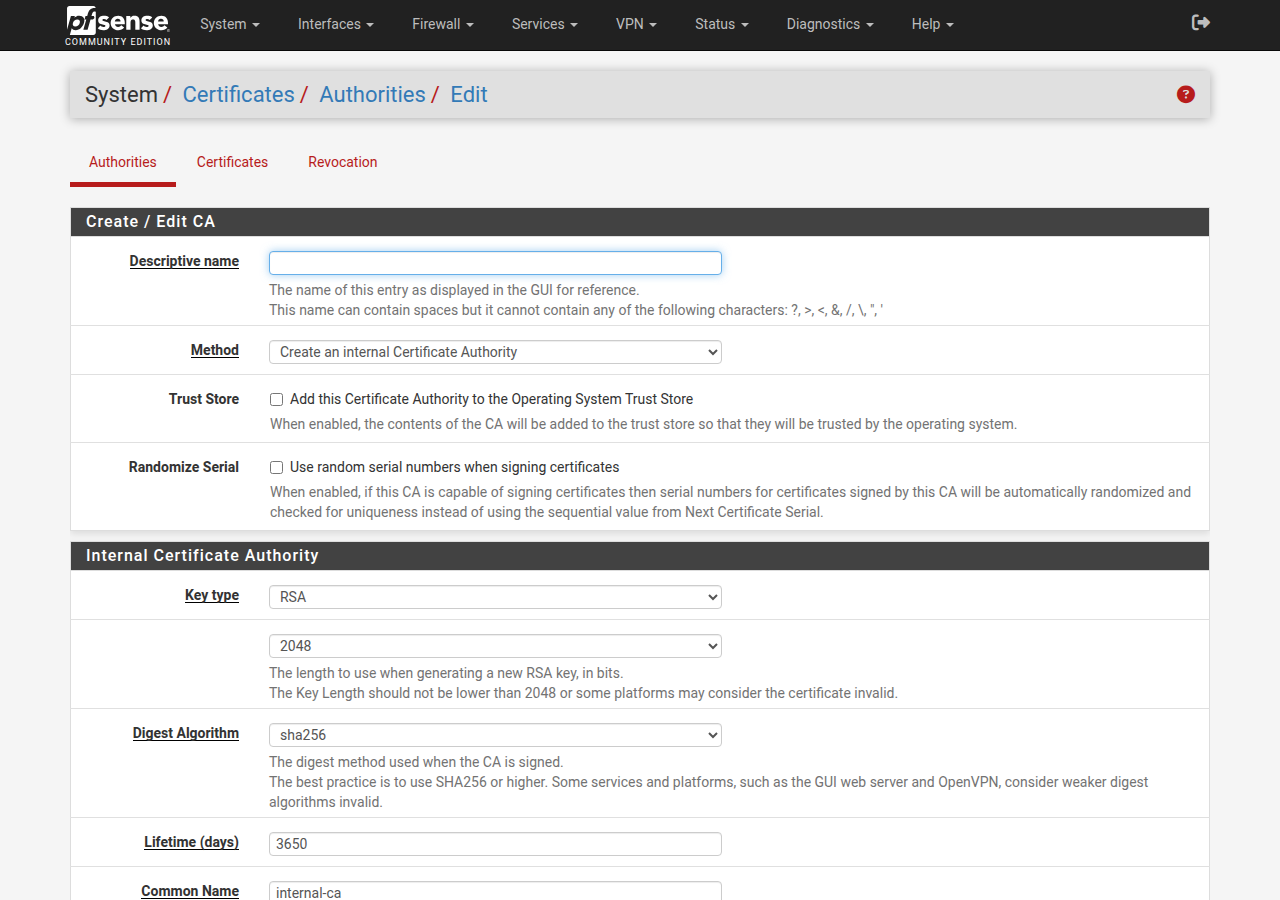
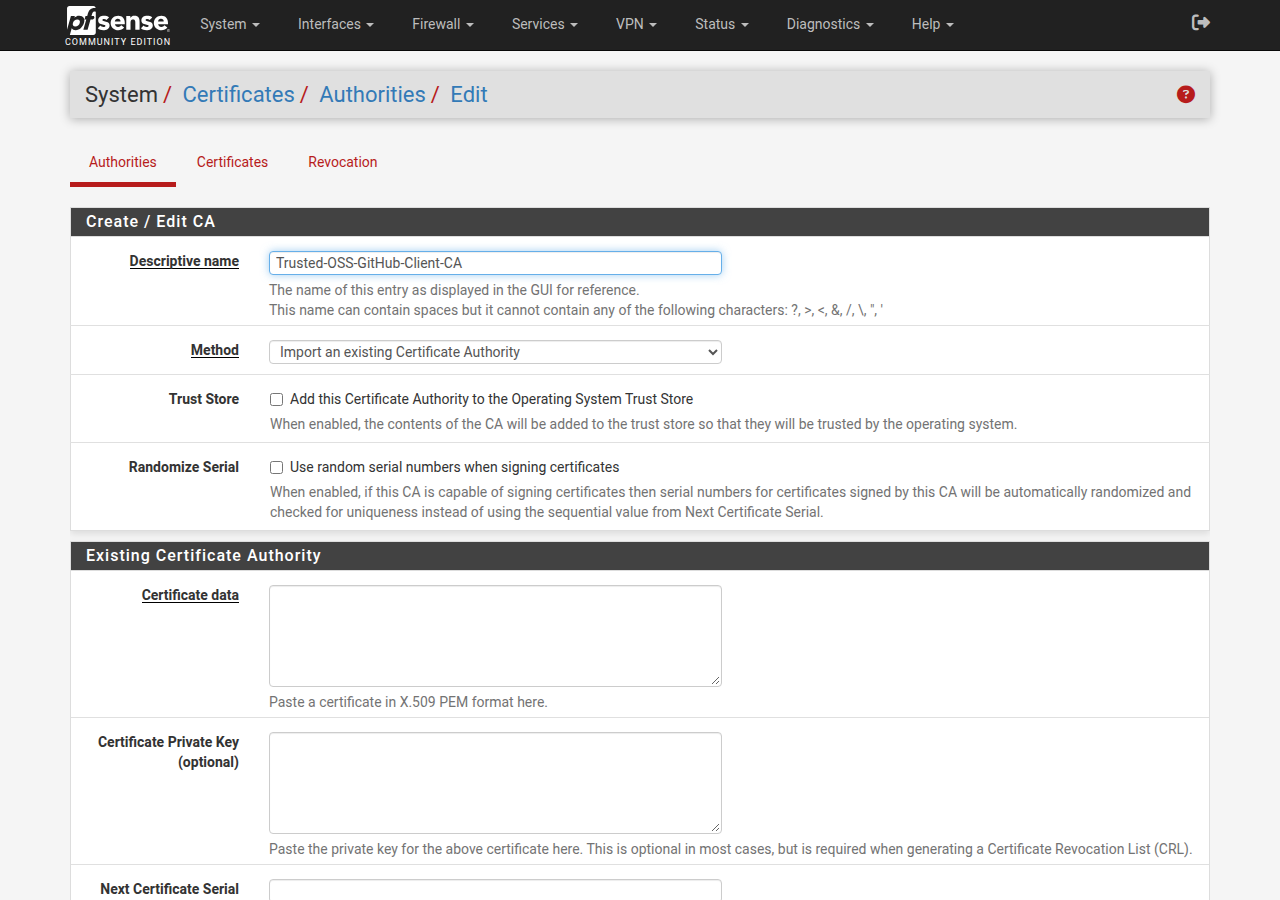
docs(pfsense): elaborate Step 1 mTLS CA import with script output and WebGUI screenshot (guide v2.1)
- Show ./scripts/generate_mtls_keys.sh output and exact ca.crt / client.crt / client.key usage
- Replace Step 1 screenshot with live pfSense 2.9.0-RELEASE 'Import an existing Certificate Authority' form
- Clarify URL Table (IPs) URL and 1-day refresh interval in Step 2.1

diff --git a/docs/pfsense-haproxy-mtls-guide.md b/docs/pfsense-haproxy-mtls-guide.md
@@ -1,6 +1,6 @@
 # pfSense `2.9.0-RELEASE` Edge Security Guide: GitHub-Only mTLS Access to `trusted-oss-gatekeeper`
 
-- **Guide Version:** `2.0` (relocated alongside [`operations-manual.md`](operations-manual.md) with step-by-step WebGUI illustrations)
+- **Guide Version:** `2.1` (relocated alongside [`operations-manual.md`](operations-manual.md) with step-by-step WebGUI illustrations)
 - **Target Firewall Platform:** pfSense `2.9.0-RELEASE (amd64)` (built `Fri Aug 28 13:53:00 EDT 2026`, `FreeBSD 16.0-CURRENT`)
 - **Required pfSense Packages:** `acme`, `haproxy`, `cron` (**System $\rightarrow$ Package Manager**)
 
@@ -31,17 +31,50 @@ TrueNAS Appliance Container (`trusted-oss-gatekeeper` on `<TRUENAS_LAN_IP>:8080`
 
 ## Step 1: Generate & Import the mTLS Client CA (`System → Cert. Manager → CAs`)
 
-1. Run the helper script on your Linux workstation to generate `ca.crt`, `client.crt`, and `client.key`:
+1. Run the helper script on your Linux workstation (creates `./mtls-pki/` with `ca.crt`, `client.crt`, `client.key`, and `client.p12`):
    ```bash
    ./scripts/generate_mtls_keys.sh
    ```
-2. In pfSense WebGUI, navigate to **System $\rightarrow$ Cert. Manager $\rightarrow$ CAs $\rightarrow$ + Add**:
+   Expected output:
+   ```text
+   [INFO] Generating CA private key and certificate...
+   [INFO] Generating Client private key and CSR...
+   [INFO] Signing Client certificate with CA...
+   Certificate request self-signature ok
+   subject=C=CA, ST=Ontario, L=Local, O=JSI Group, OU=GitHubActions, CN=github-actions-runner-client
+   [INFO] Creating PKCS#12 bundle for Java/Maven...
+   ================================================================================
+   ✅ mTLS PKI Generation Complete in: ./mtls-pki
+   ================================================================================
+   1. pfSense Import File (Upload this as Internal CA in pfSense Cert Manager):
+      -> ./mtls-pki/ca.crt
+
+   2. GitHub Action Repository Secret (OSS_MTLS_CLIENT_CERT):
+      -> ./mtls-pki/client.crt
+
+   3. GitHub Action Repository Secret (OSS_MTLS_CLIENT_KEY):
+      -> ./mtls-pki/client.key
+
+   4. PKCS#12 Bundle (Password: 'changeit') for Java / Maven:
+      -> ./mtls-pki/client.p12
+   ================================================================================
+   ```
+2. Print `./mtls-pki/ca.crt` and copy the entire `-----BEGIN CERTIFICATE----- ... -----END CERTIFICATE-----` block:
+   ```bash
+   cat ./mtls-pki/ca.crt
+   ```
+3. In pfSense WebGUI, navigate to **System $\rightarrow$ Certificates $\rightarrow$ Authorities $\rightarrow$ + Add**:
    - **Descriptive name**: `Trusted-OSS-GitHub-Client-CA`
    - **Method**: `Import an existing Certificate Authority`
-   - **Certificate data**: Paste the full PEM contents of `ca.crt`
+   - **Trust Store**: leave unchecked
+   - **Randomize Serial**: leave unchecked
+   - **Existing Certificate Authority $\rightarrow$ Certificate data**: Paste the contents of `./mtls-pki/ca.crt`
+   - **Certificate Private Key (optional)**: leave blank
    - Click **Save**.
 
 ![Step 1 — System Cert. Manager Import CA](images/pfsense-01-cert-manager-ca.png)
+
+4. Save `./mtls-pki/client.crt` and `./mtls-pki/client.key` as GitHub Organization or Repository **Secrets** (`OSS_MTLS_CLIENT_CERT` and `OSS_MTLS_CLIENT_KEY`) in Step 5, and keep `./mtls-pki/ca.key` offline/private.
 
 *(Alternative)* Create the CA and Client Certificate directly inside pfSense **System $\rightarrow$ Cert. Manager**, then export `client.crt` and `client.key` as PEM for your GitHub Actions secrets (`OSS_MTLS_CLIENT_CERT`, `OSS_MTLS_CLIENT_KEY`).
 
@@ -61,9 +94,9 @@ TrueNAS Appliance Container (`trusted-oss-gatekeeper` on `<TRUENAS_LAN_IP>:8080`
    ```
 4. In pfSense WebGUI, navigate to **Firewall $\rightarrow$ Aliases $\rightarrow$ URLs $\rightarrow$ + Add**:
    - **Name**: `github_actions_cidrs`
-   - **Type**: `URL Table (IPs)`
-   - **URL Table (IPs)**: URL serving `github_actions_cidrs.txt`
-   - **Update Frequency**: `1` day
+   - **Type**: `URL Table (IPs)` *(do not use `URL (IPs)`, which is capped at `< 3,000` entries; `github_actions_cidrs.txt` has 8,350+ CIDRs)*
+   - **URL Table (IPs)**: `https://raw.githubusercontent.com/jsoehner/trusted-oss-harbor/main/config/pfsense/github_actions_cidrs.txt` *(or your internal HTTP URL serving `github_actions_cidrs.txt`)*
+   - **Update Frequency** (dropdown after `/`): `1` day
    - Click **Save** and **Apply Changes**.
 
 ![Step 2.1 — Firewall Aliases URL Table](images/pfsense-02-aliases-github-cidrs.png)
